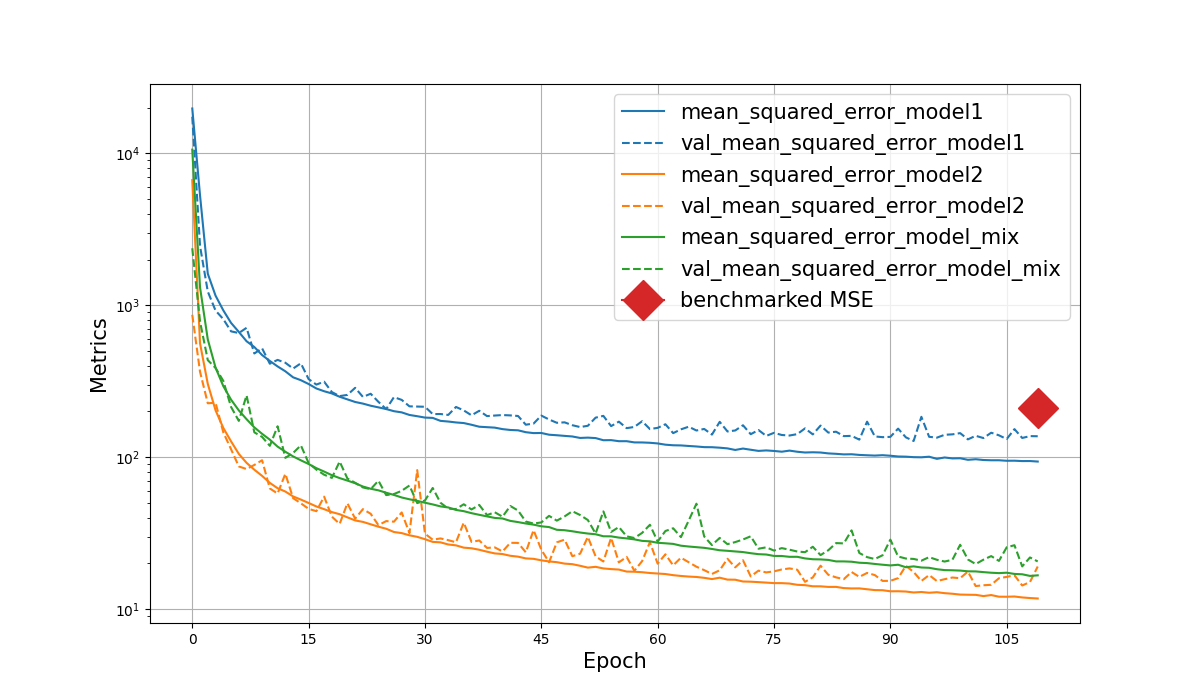
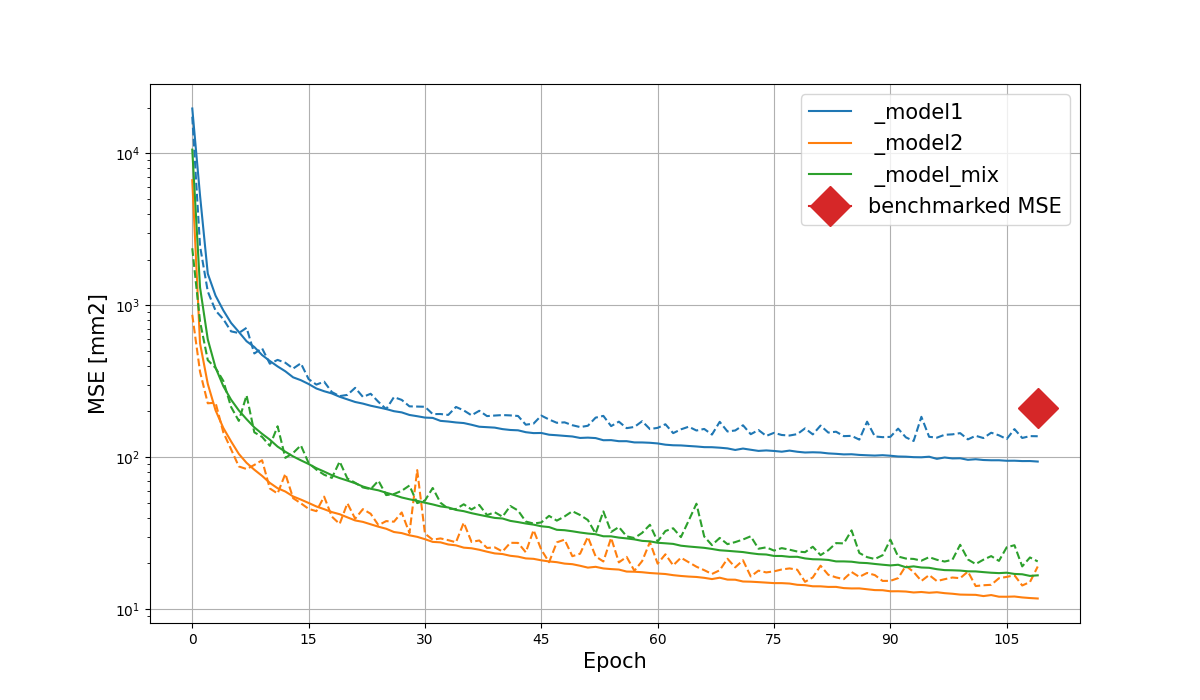
Requirements.txt

Changed region(s): [[0.4933, 0.15, 0.8942, 0.48], [0.0617, 0.42, 0.0925, 0.6]]

diff --git a/plotter.py b/plotter.py
@@ -1,4 +1,3 @@
-import pdb
 import os
 import matplotlib.pyplot as plt
 from matplotlib.ticker import MaxNLocator
@@ -54,12 +53,12 @@ def plot_model_history(models, metrics=['mean_squared_error'], loglevel = False,
         for loss in metrics: 
             plt.plot(
             history[loss],
-            label = loss+label_str[col_idx],
+            label = ' '+label_str[col_idx],
             color=colors[col_idx]
             )
             plt.plot(
             history['val_'+loss],
-            label = 'val_'+loss+label_str[col_idx],
+            #label = 'val_'+loss+label_str[col_idx],
             color=colors[col_idx],
             linestyle='dashed'
             )
@@ -78,7 +77,7 @@ def plot_model_history(models, metrics=['mean_squared_error'], loglevel = False,
     ax.xaxis.set_major_locator(MaxNLocator(integer=True))
     
     plt.xlabel('Epoch',fontsize=fs)
-    plt.ylabel('Metrics',fontsize=fs)
+    plt.ylabel('MSE [mm2]',fontsize=fs)
     plt.legend(loc='best',fontsize=fs)
     plt.grid()
     
